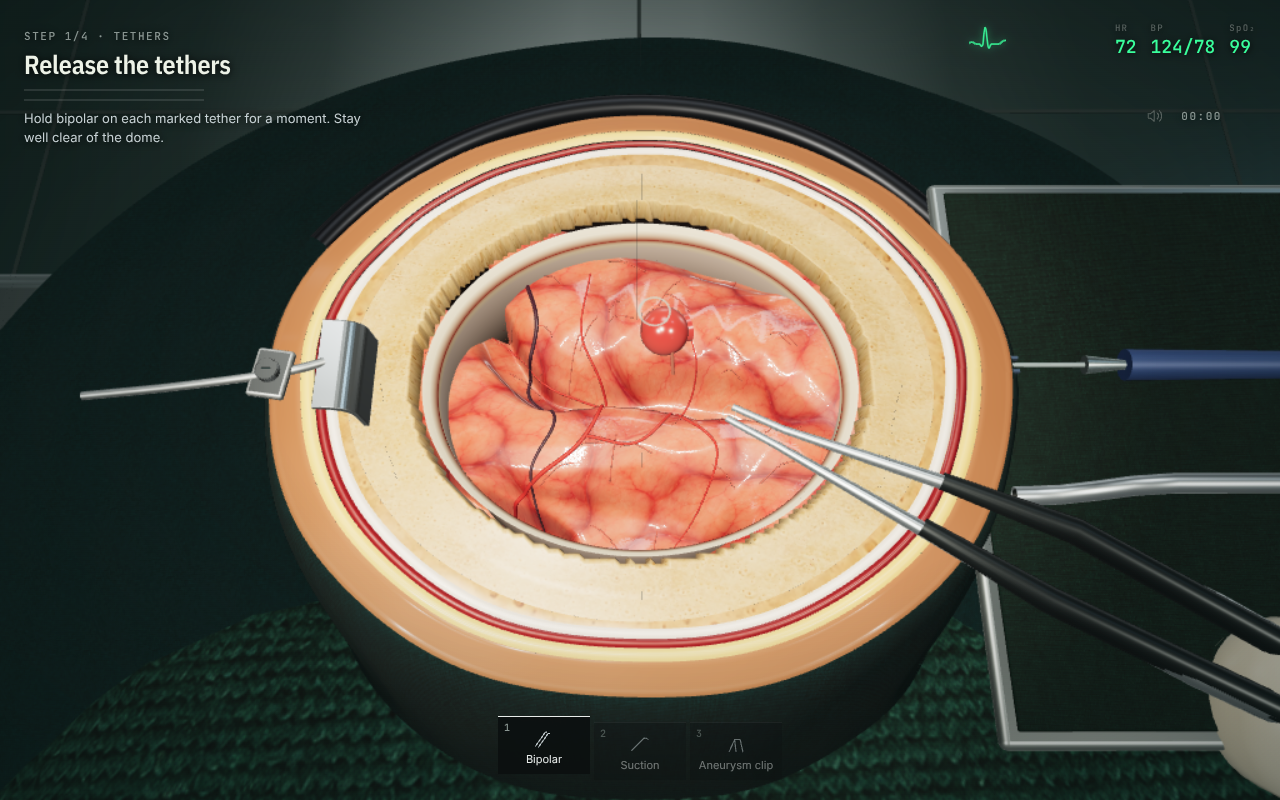
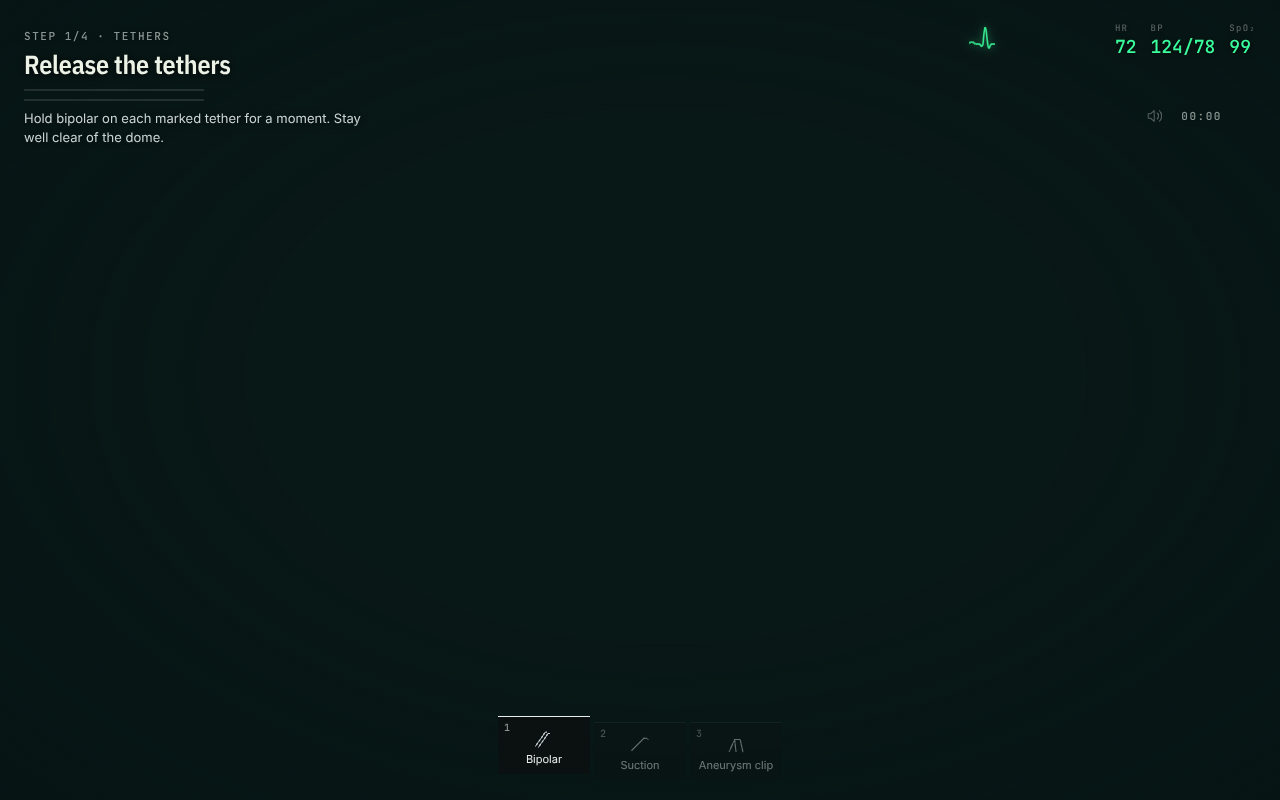
README: first-person controls

diff --git a/README.md b/README.md
@@ -1,6 +1,6 @@
 # Suture
 
-**A browser neurosurgery game.** Read the patient's briefing, scrub in, and keep a steady hand through six different procedures. The patient has a heartbeat, blood pressure and an anaesthetist who talks to you. Your choices change what happens next, and every operation ends with a graded debrief.
+**A first-person browser neurosurgery game.** You are the only surgeon awake. Read the patient's briefing, scrub in, and operate on an actual draped patient in a real 3D operating room: look around, step in and lean over the head, and work with your own gloved hands. Six different procedures. The patient has a heartbeat, blood pressure and an anaesthetist who talks to you. Your choices change what happens next, and every operation ends with a graded debrief.
 
 **Play online: https://losttnt.github.io/Surgery-Simulator/**
 
@@ -28,18 +28,20 @@ Each case opens with a short, quiet **arrival scene** in an eerily empty hospita
 
 | Input | Action |
 | --- | --- |
-| Mouse | Aim the instrument |
-| Hold left button | Operate the held instrument |
-| `T` | Open the instrument tray (one tool in hand at a time) |
-| Scroll | Trim tool depth (assisted mode) |
-| `Shift` | Fine movement |
+| Click the view | Take control (captures the mouse) |
+| Mouse | Look around; the crosshair is where the instrument works |
+| `W` `A` `S` `D` | Step around and lean in over the patient (`W` moves along your view) |
+| `Shift` | Slow, fine movement |
+| Hold left button | Operate the instrument in your hand |
+| `1` `2` `3` | Ask the scrub nurse for an instrument (she says its name) |
+| `Z` | Look through the surgical microscope (narrow view, depth of field) |
+| Scroll | Trim tool depth; with the aneurysm clip in hand, rotates the clip |
 | `Q` | Toggle manual depth (full shaft contact) |
-| `A` / `D` | Rotate the aneurysm clip (Case 04) |
 | `Space` / `R` / `E` | Advance / withdraw / secure the catheter (Case 06) |
 | `E` | Lift the bone flap, or begin the final examination |
-| `Esc` | Pause |
+| `Esc` | Release the mouse and pause |
 
-The room is walkable (`WASD`), or choose **Go straight to surgery**.
+If the browser cannot capture the mouse (touch, some embeds), the view stays at its default pose and the pointer aims directly.
 
 ## Run it locally
 
